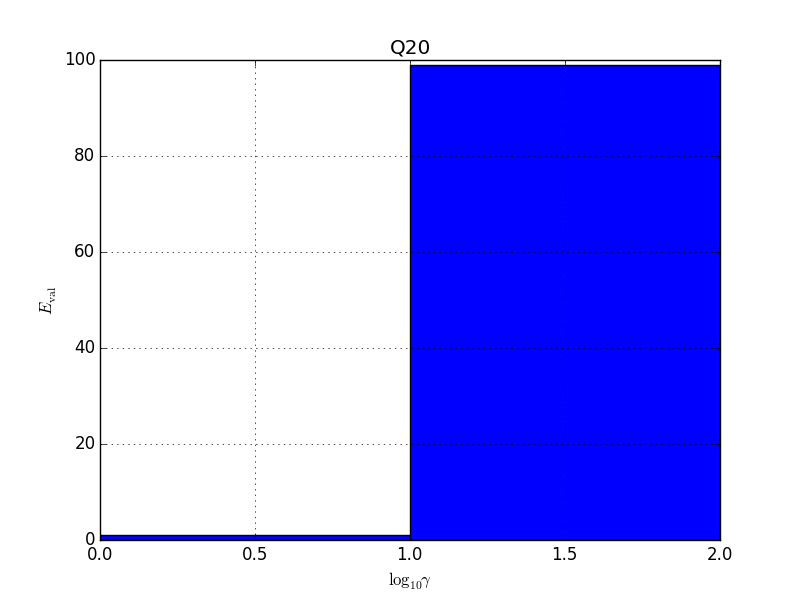
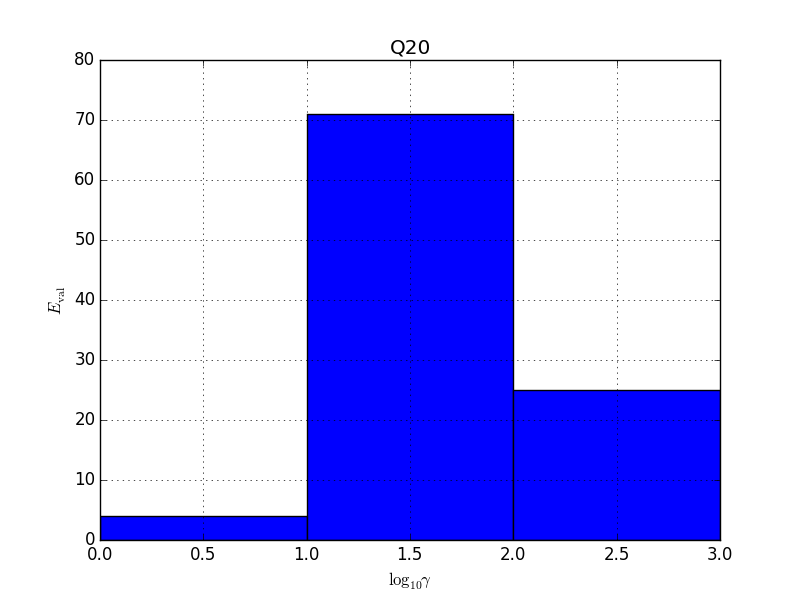
- HW5: version 1.3

diff --git a/Homework_5/ML_HW5_Programming/Q20.py b/Homework_5/ML_HW5_Programming/Q20.py
@@ -1,13 +1,41 @@
 import time
 import numpy as np
 import random as rd
+import multiprocessing as mp
 import matplotlib.pyplot as plt
 from sklearn import svm
+from joblib import Parallel, delayed
 
 def digitTrans(y, digit):
     y[y != digit] = -1.0
     y[y == digit] = 1.0
     return y
+
+def eValCal(i):
+    DIGIT = 0
+    RANDOM_SAMPLE = 1000
+
+    TRAIN20_FILE = 'hw5_train.dat'
+    TRAIN20_DATA = np.loadtxt(TRAIN20_FILE, dtype=np.float)
+    x20 = TRAIN20_DATA[:, 1:TRAIN20_DATA.shape[1]]
+    y20 = digitTrans(TRAIN20_DATA[:, 0], DIGIT)
+
+    gammaList = [0, 1, 2, 3, 4]
+
+    randIdx  = np.array(rd.sample(range(len(x20)), RANDOM_SAMPLE))
+    pRandIdx = np.array([r for r in range(len(x20)) if r not in randIdx])
+    xTrain20 = x20[pRandIdx]
+    yTrain20 = y20[pRandIdx]
+    xValid20 = x20[randIdx]
+    yValid20 = y20[randIdx]
+
+    eValList = []
+    for gamPower in gammaList:
+        clf  = svm.SVC(C=0.1, kernel='rbf', gamma=(10 ** gamPower))
+        clf.fit(xTrain20, yTrain20)
+        eVal = 1 - clf.fit(xTrain20, yTrain20).score(xValid20, yValid20)
+        eValList.append(eVal)
+    return np.argmin(eValList)
 
 def plotHist(x, xLabel, yLabel, title, width, isFloat):
     plt.title(str(title))
@@ -24,35 +52,18 @@ def plotHist(x, xLabel, yLabel, title, width, isFloat):
     plt.close()
 
 def main():
-    DIGIT = 0
-    REPEAT = 100
-    RANDOM_SAMPLE = 1000
+    REPEAT = 1
+    num_cores = mp.cpu_count()
 
-    TRAIN20_FILE = 'hw5_train.dat'
-    TRAIN20_DATA = np.loadtxt(TRAIN20_FILE, dtype=np.float)
-    x20 = TRAIN20_DATA[:, 1:TRAIN20_DATA.shape[1]]
-    y20 = TRAIN20_DATA[:, 0]
-
-    gammaList = [0, 1, 2, 3, 4]
-    eValHist  = []
     t0 = time.time()
-    for times in range(REPEAT):
-        randIdx  = np.array(rd.sample(range(len(x20)), RANDOM_SAMPLE))
-        pRandIdx = np.array([r for r in range(len(x20)) if r not in randIdx])
-        xTrain20 = x20[randIdx]
-        yTrain20 = digitTrans(y20[randIdx], DIGIT)
-        xValid20 = x20[pRandIdx]
-        yValid20 = digitTrans(y20[pRandIdx], DIGIT)
-
-        eValList = []
-        for gamPower in range(0, 5):
-            clf  = svm.SVC(C=0.1, kernel='rbf', gamma=(10 ** gamPower))
-            clf.fit(xTrain20, yTrain20)
-            eVal = 1 - clf.fit(xTrain20, yTrain20).score(xValid20, yValid20)
-            eValList.append(eVal)
-        eValHist.append(np.argmin(eValList))
+    eValHist = Parallel(n_jobs=num_cores)(delayed(eValCal)(i) for i in range(REPEAT))
     plotHist(eValHist, r"$\log_{10}\gamma$", r'$E_{\mathrm{val}}$', "Q20", 1, False)
+    eValHist = np.bincount(eValHist)
+    eValHist = np.array(eValHist)
+    while len(eValHist) < 5:
+        eValHist = np.append(eValHist, 0)
     t1 = time.time()
+
     print '========================================================='
     print 'Question 20:', eValHist
     print '---------------------------------------------------------'

diff --git a/Homework_5/Answer Sheet for Homework 5.tex b/Homework_5/Answer Sheet for Homework 5.tex
@@ -569,14 +569,14 @@ The minimum occurs at $\gamma=10$. $E_{\text{out}}$ becomes larger as $\gamma$ b
 
 \subsection*{Problem 20}
 
-The corresponding $\gamma$ of $\min E_{\text{val}}$ are 10 in 99 results, one result is 1.
+The most corresponding $\gamma$ of $\min E_{\text{val}}$ are 10, 71 times out of 100 repeats and 1: 4 times, 100: 25 times.
 \begin{figure}[H]
 	\centering
 	\includegraphics[scale=0.5]{Q20.png}
 	\caption{Q20}
 	\label{Q20}
 \end{figure}
-Over almost all random choices, $\gamma=10$ always minimizes $E_{\text{val}}$.
+%Over almost all random choices, $\gamma=10$ always minimizes $E_{\text{val}}$.
 
 \QEDB
 

diff --git a/Homework_5/ML_HW5_Programming/Q18.py b/Homework_5/ML_HW5_Programming/Q18.py
@@ -38,7 +38,7 @@ def main():
     CList    = [-3, -2, -1, 0, 1]
     distList = []
     t0 = time.time()
-    for cPower in range(-3, 2):
+    for cPower in CList:
         clf = svm.SVC(C=(10 ** cPower), kernel='rbf', gamma=GAMMA)
         clf.fit(x18, y18)
         wSquare = svmMargin(np.array(clf.support_vectors_), np.array(clf.dual_coef_[0]), GAMMA)

diff --git a/Homework_5/ML_HW5_Programming/Q19.py b/Homework_5/ML_HW5_Programming/Q19.py
@@ -35,7 +35,7 @@ def main():
     gammaList = [0, 1, 2, 3, 4]
     eOutList  = []
     t0 = time.time()
-    for gamPower in range(0, 5):
+    for gamPower in gammaList:
         clf  = svm.SVC(C=0.1, kernel='rbf', gamma=(10 ** gamPower))
         clf.fit(xTrain19, yTrain19)
         eOut = 1 - clf.fit(xTrain19, yTrain19).score(xTest19, yTest19)

diff --git a/Homework_5/ML_HW5_Programming/Q17.py b/Homework_5/ML_HW5_Programming/Q17.py
@@ -31,7 +31,7 @@ def main():
     CList   = [-6, -4, -2, 0, 2]
     sumList = []
     t0 = time.time()
-    for cPower in range(-6, 3, 2):
+    for cPower in CList:
         clf = svm.SVC(C=(10 ** cPower), kernel='poly', degree=2, gamma=1, coef0=1)
         clf.fit(x17, y17)
         sumNum = np.sum(np.absolute(clf.dual_coef_[0]))

diff --git a/Homework_5/ML_HW5_Programming/Q16.py b/Homework_5/ML_HW5_Programming/Q16.py
@@ -30,7 +30,7 @@ def main():
     CList   = [-6, -4, -2, 0, 2]
     eInList = []
     t0 = time.time()
-    for cPower in range(-6, 3, 2):
+    for cPower in CList:
         clf = svm.SVC(C=(10 ** cPower), kernel='poly', degree=2, gamma=1, coef0=1)
         clf.fit(x16, y16)
         eIn = 1 - clf.fit(x16, y16).score(x16, y16)

diff --git a/Homework_5/ML_HW5_Programming/Q15.py b/Homework_5/ML_HW5_Programming/Q15.py
@@ -30,7 +30,7 @@ def main():
     CList = [-6, -4, -2, 0, 2]
     wList = []
     t0 = time.time()
-    for cPower in range(-6, 3, 2):
+    for cPower in CList:
         clf = svm.SVC(C=(10 ** cPower), kernel='linear')
         clf.fit(x15, y15)
         w     = clf.coef_[0]
